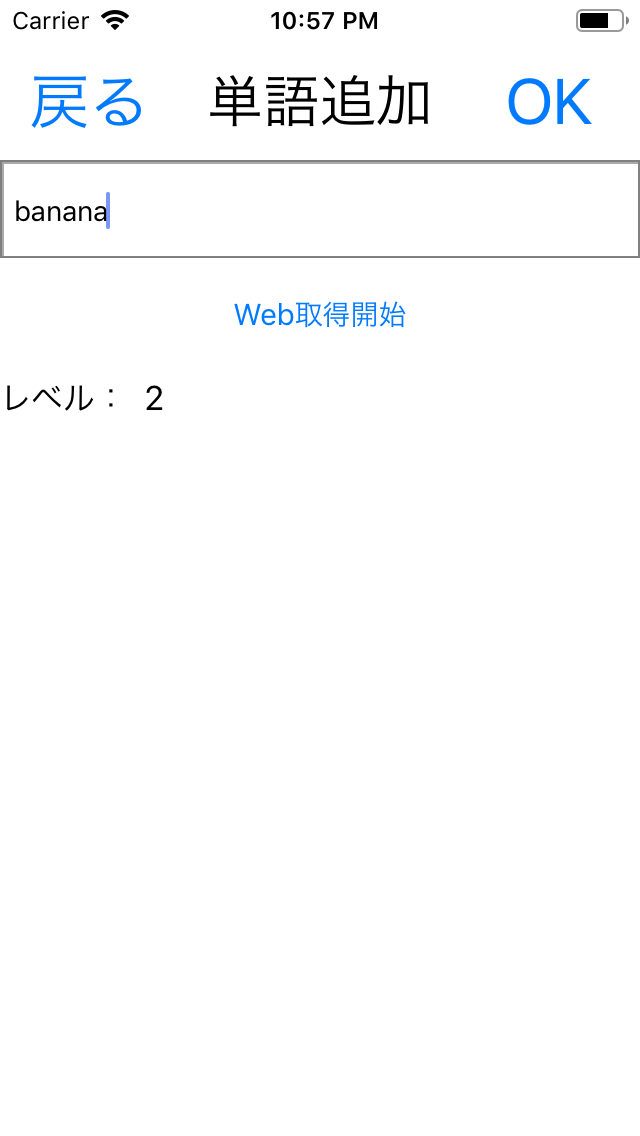
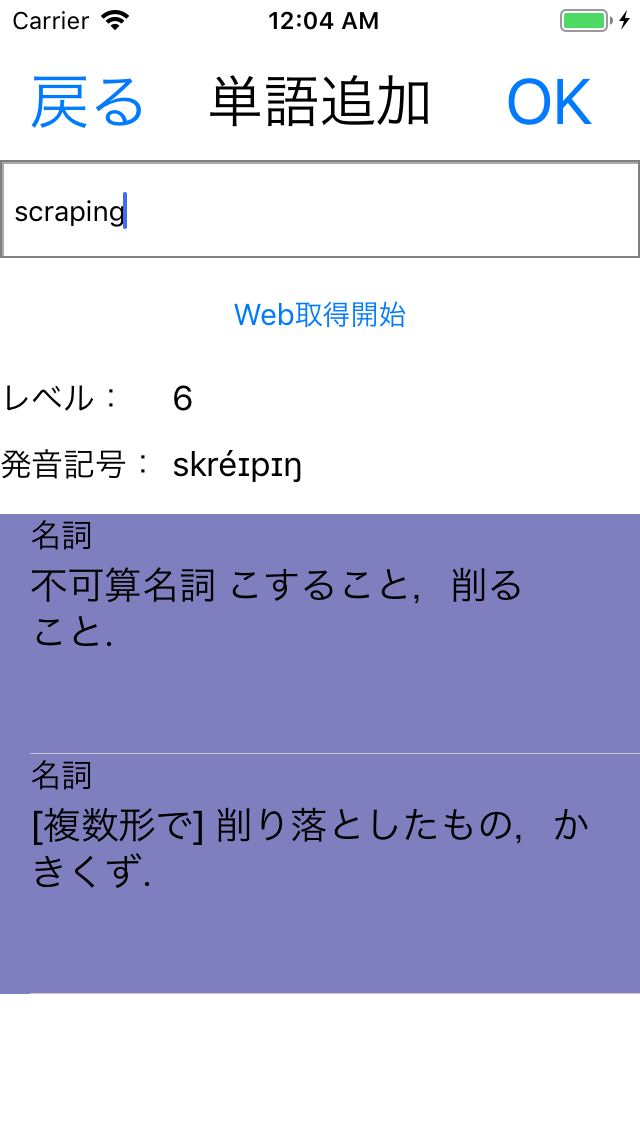
単語追加画面(Web)にWebスクレイピング機能を実装。Webから品詞や意味を取得可能に

diff --git a/EnglishWords/EnglishWords/AddWordFromWebViewController.swift b/EnglishWords/EnglishWords/AddWordFromWebViewController.swift
@@ -12,11 +12,16 @@ import RealmSwift
 import Alamofire
 import Kanna
 
-class AddWordFromWebViewController: UIViewController, UITextFieldDelegate {
+class AddWordFromWebViewController: UIViewController, UITextFieldDelegate, UITableViewDelegate, UITableViewDataSource  {
 
+    @IBOutlet var table:UITableView!
     @IBOutlet var wordtextField: UITextField!
     
     @IBOutlet var level: UILabel!
+    @IBOutlet var pronounce: UILabel!
+    
+    var poslist: [String] = []
+    var meanlist: [String] = []
     
     var wordnotebook: WordNoteBook?
     
@@ -24,10 +29,42 @@ class AddWordFromWebViewController: UIViewController, UITextFieldDelegate {
         super.viewDidLoad()
         
         wordtextField.placeholder = "単語を入力してください"
+        
+        //tableのラベルを折り返す設定
+        table.estimatedRowHeight=120
+        table.rowHeight=UITableViewAutomaticDimension
     }
     
     override func didReceiveMemoryWarning() {
         super.didReceiveMemoryWarning()
+    }
+    
+    //テーブルのセルの数を設定
+    func tableView(_ tableView: UITableView, numberOfRowsInSection section: Int) -> Int {
+        return meanlist.count
+    }
+    
+    //テーブルのセルの要素を設定
+    func tableView(_ tableView: UITableView, cellForRowAt indexPath: IndexPath) -> UITableViewCell {
+        // tableCell の ID で UITableViewCell のインスタンスを生成
+        let cell = table.dequeueReusableCell(withIdentifier: "tablecell",
+                                             for: indexPath)
+        // Tag番号  で UILabel インスタンスの生成
+        let poslabel = cell.viewWithTag(1) as! UILabel
+        poslabel.numberOfLines = 0
+        poslabel.text = poslist[indexPath.row]
+        let meanlabel = cell.viewWithTag(2) as! UILabel
+        meanlabel.numberOfLines = 0
+        meanlabel.text = meanlist[indexPath.row]
+        cell.backgroundColor = UIColor(red: 0.0, green: 0.0, blue: 0.5, alpha: 0.5)
+        
+        return cell
+    }
+    
+    // TableのCell の高さを１２０にする
+    func tableView(_ table: UITableView,
+                   heightForRowAt indexPath: IndexPath) -> CGFloat {
+        return 120.0
     }
     
     @IBAction func buttonTapped(sender : UIButton) {
@@ -63,28 +100,62 @@ class AddWordFromWebViewController: UIViewController, UITextFieldDelegate {
             print("\(response.result.isSuccess)")
             
             if let html = response.result.value {
+                //入力した単語でスクレイピング開始・テーブル更新
                 self.parseHTML(html: html)
+                self.table.reloadData()
             }
         }
     }
     
     func parseHTML(html: String) {
         if let doc = try? HTML(html: html, encoding: .utf8) {
-            print(doc.title)
-            print("レベル：")
-            level.text = doc.css("span[class='learning-level-content']")[0].text
-
-            let kenej = doc.css("div[class='mainBlock hit_KENEJ']")
+            level.text = doc.css("span[class='learning-level-content']").first!.text
+            pronounce.text = doc.css("span[class='phoneticEjjeDesc']").first!.text
             
-            for link in doc.css("div[class='KnenjSub']") {
-                print(link.content)
-                print(link.className)
-                print(link.innerHTML)
-                print(link.tagName)
-                print(link.text)
-                print(link.toHTML)
-                print(link.toXML)
-                print("----------")
+            let means = doc.xpath("//div[@class='mainBlock hlt_KENEJ']/div[@class='kijiWrp']/div[@class='kiji']/div[@class='Kejje']/div[@class='level0']")
+            
+            //品詞・意味リストを全削除
+            poslist.removeAll()
+            meanlist.removeAll()
+            
+            var mean: String = ""
+            var nh: String = ""
+            var ah: String = ""
+            var b: String = ""
+            for m in means{
+            
+                //品詞のタグがある場合は品詞を入れて次に進む
+                if(m.css("div[class='KnenjSub']").count > 0){
+                    let submean = m.css("span[class='KejjeSm']").first?.text!
+                    mean = (m.css("div[class='KnenjSub']").first!.text?.trimmingCharacters(in: .whitespaces).uppercased())!
+                    if( submean != nil ){
+                        mean = mean.replacingOccurrences(of: submean!, with: "")
+                        mean = mean + "(" + (submean?.trimmingCharacters(in: .whitespaces))! + ")"
+                    }
+                    continue
+                }
+                
+                //大節のタグがある場合は大節を入れる
+                if(m.css("p[class='lvlNH']").count > 0 && !(m.css("p[class='lvlNH']").first?.text?.isEmpty)!){
+                    nh = (m.css("p[class='lvlNH']").first!.text?.trimmingCharacters(in: .whitespaces).uppercased())!
+                }
+                
+                //小節のタグがある場合は小節を入れる
+                if(m.css("p[class='lvlAH']").count > 0){
+                    ah = (m.css("p[class='lvlAH']").first!.text?.trimmingCharacters(in: .whitespaces).uppercased())!
+                }
+                
+                //意味のタグがある場合は小節を入れる
+                if(m.css("p[class='lvlB']").count > 0){
+                    b = (m.css("p[class='lvlB']").first!.text?.trimmingCharacters(in: .whitespaces).uppercased())!
+                }else{
+                    continue
+                }
+                
+                //品詞：大節：小節：意味
+                print(mean + ":" + nh + ":" + ah + ":" + b)
+                poslist.append(mean)
+                meanlist.append(b)
             }
         }
     }
